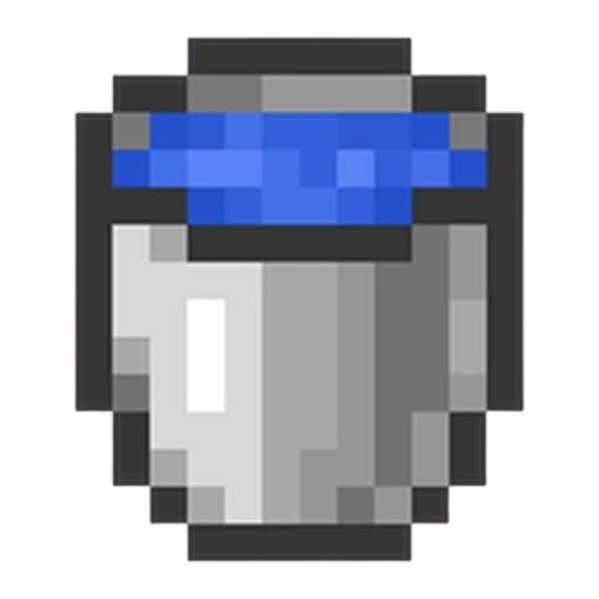
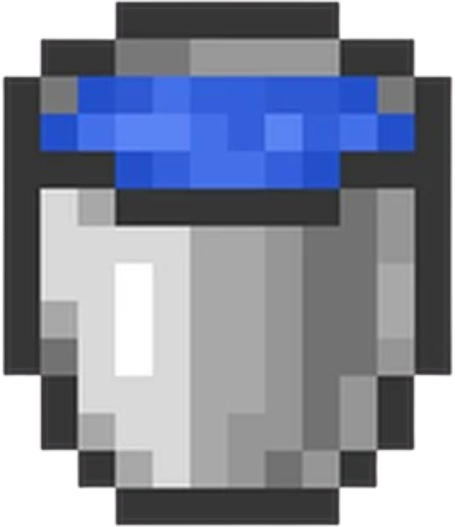
feat: assets showing with the hitbox

diff --git a/src/TomatoSurvivor.cpp b/src/TomatoSurvivor.cpp
@@ -16,6 +16,16 @@ TomatoSurvivor::TomatoSurvivor() {
     SetTargetFPS(60);
 
     _tomato = std::make_unique<Tomato>(_playerSize, WINDOW_SIZE.x / 2, WINDOW_SIZE.y / 2);
+    tomato_texture = LoadTexture("assets/tomato.png");
+    tomato_texture.height = _playerSize*2;
+    tomato_texture.width = _playerSize*2;
+    water_texture = LoadTexture("assets/water_bucket.png");
+    water_texture.height = _bonusSize*2;
+    water_texture.width = _bonusSize*2;
+    arrow_texture = LoadTexture("assets/arrow.png");
+    arrow_texture.height = _arrowSize*2;
+    arrow_texture.width = _arrowSize*2;
+    _tomato->setTexture(tomato_texture);
     spawnBonus();
     music = LoadMusicStream("assets/Tears.ogg");
     volume = 0.9f;
@@ -23,6 +33,7 @@ TomatoSurvivor::TomatoSurvivor() {
     SetMusicPan(music, pan);
     SetMusicVolume(music, volume);
     still_alive = true;
+    show_hitbox = false;
 }
 
 TomatoSurvivor::~TomatoSurvivor() {
@@ -78,11 +89,11 @@ void TomatoSurvivor::render() {
     ClearBackground(RAYWHITE);
 
     if (_tomato)
-        _tomato->render();
+        _tomato->render(show_hitbox);
     for (auto &arrow : _arrows)
-        arrow->render();
+        arrow->render(show_hitbox);
     for (auto &bonus : _bonuses)
-        bonus->render();
+        bonus->render(show_hitbox);
     DrawRectangle(0, 0, 800, 100, LIGHTGRAY);
 
     DrawText(TextFormat(TEXT_TIME), 10, 10, 35, BLACK);
@@ -119,6 +130,12 @@ void TomatoSurvivor::loop() {
         render();
         if (IsKeyPressed(Config::KEY_PAUSE))
             pause_menu();
+        if (IsKeyPressed(KEY_LEFT_CONTROL)) {
+            if (!show_hitbox)
+                show_hitbox = 1;
+            else
+                show_hitbox = 0;
+        }
         if (_timer <= 0) {
             still_alive = false;
         }
@@ -183,11 +200,15 @@ void TomatoSurvivor::spawnArrow() {
         vel.y = rand() % 3 * (pos.y < 400 ? 1 : -1);
     }
     _arrows.emplace_back(std::make_unique<Arrow>(_arrowSize, pos, vel));
+    for (auto& arrow : _arrows)
+        arrow->setTexture(arrow_texture);
 }
 
 void TomatoSurvivor::spawnBonus() {
     _bonuses.emplace_back(std::make_unique<Bonus>(
         _bonusSize, (int)rand() % (int)GAME_SIZE.x, (int)rand() % (int)GAME_SIZE.y));
+    for (auto& bonus : _bonuses)
+        bonus->setTexture(water_texture);
 }
 
 } // namespace TomatoSurvivor

diff --git a/include/entity/AEntity.hpp b/include/entity/AEntity.hpp
@@ -10,9 +10,10 @@ class AEntity : public IEntity {
   public:
     virtual ~AEntity() = default;
     void update() = 0;
-
-    void render() override {
-        DrawCircleV({position.x, position.y + 100}, radius, color);
+    void render(bool show_hitbox) override {
+        DrawTexture(texture, position.x - radius, position.y + 100 - radius, WHITE);
+        if (show_hitbox)
+            DrawCircleV({position.x, position.y + 100}, radius, color);
     }
 
     Vector2 getPosition() const override {
@@ -21,6 +22,10 @@ class AEntity : public IEntity {
 
     void setPosition(Vector2 _position) override {
         position = _position;
+    }
+
+    void setTexture(Texture2D _texture) override {
+        texture = _texture;
     }
 
     int getRadius() const {
@@ -32,6 +37,7 @@ class AEntity : public IEntity {
     Vector2 velocity;
     Color color;
     int radius;
+    Texture2D texture;
 };
 
 } // namespace TomatoSurvivor

diff --git a/include/entity/IEntity.hpp b/include/entity/IEntity.hpp
@@ -6,9 +6,10 @@ class IEntity {
   public:
     virtual ~IEntity() = default;
     virtual void update() = 0;
-    virtual void render() = 0;
+    virtual void render(bool show_hitbox) = 0;
     virtual Vector2 getPosition() const = 0;
     virtual void setPosition(Vector2) = 0;
+    virtual void setTexture(Texture2D) = 0;
     virtual int getRadius() const = 0;
 };
 

diff --git a/include/TomatoSurvivor.hpp b/include/TomatoSurvivor.hpp
@@ -59,6 +59,10 @@ class TomatoSurvivor {
     float _nextShopSpawn = _spawnShopDelay;
     Music music;
     float volume;
-    float pan = 0.0f; 
+    float pan;
+    Texture2D tomato_texture;
+    Texture2D water_texture;
+    Texture2D arrow_texture;
+    bool show_hitbox;
 };
 } // namespace TomatoSurvivor
